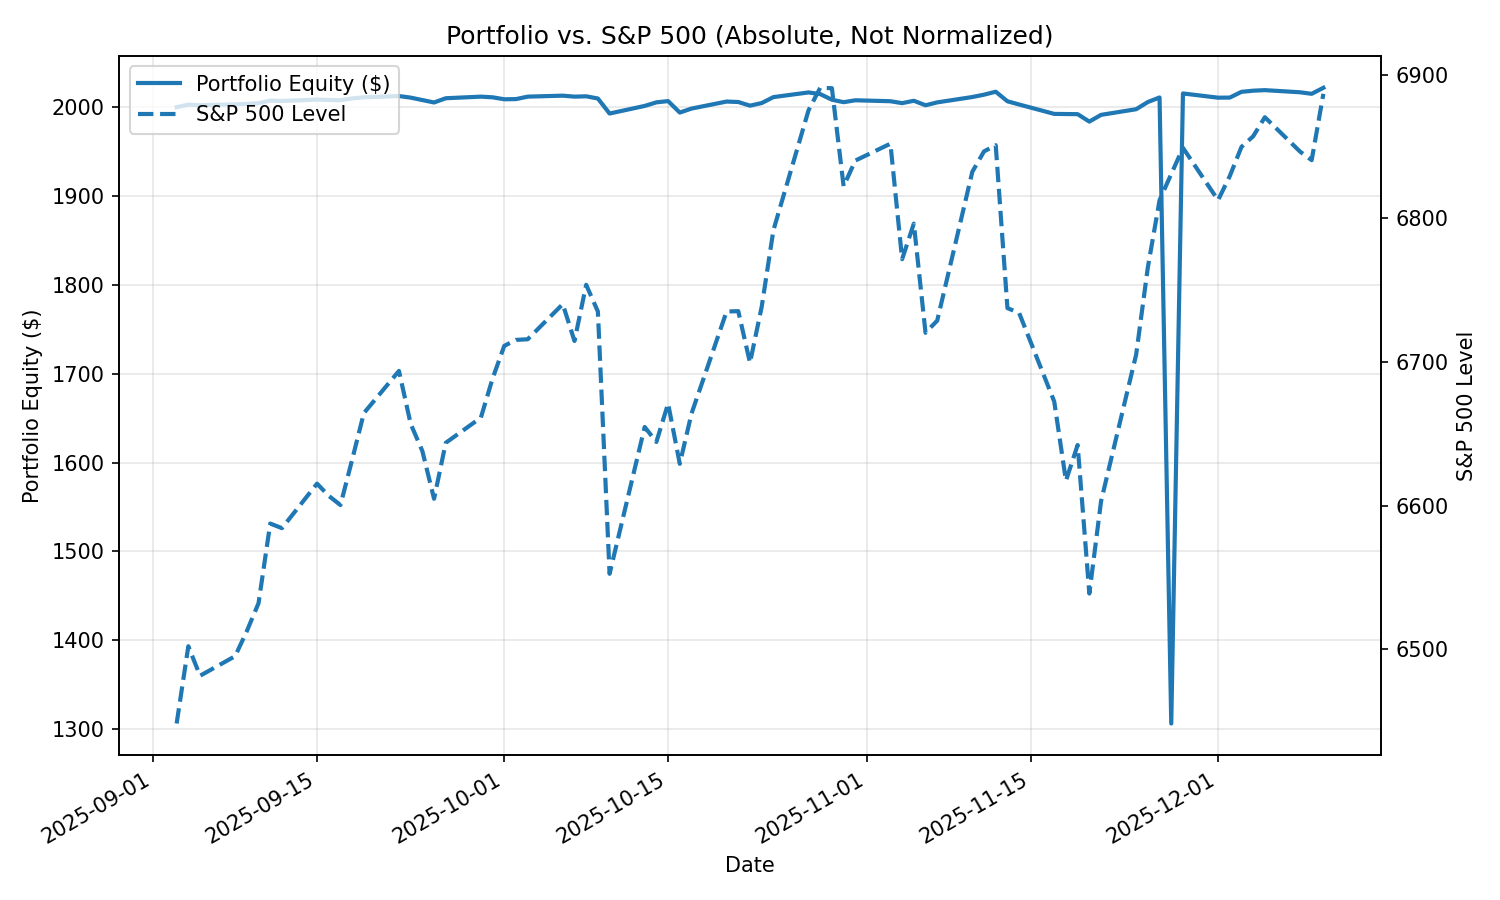
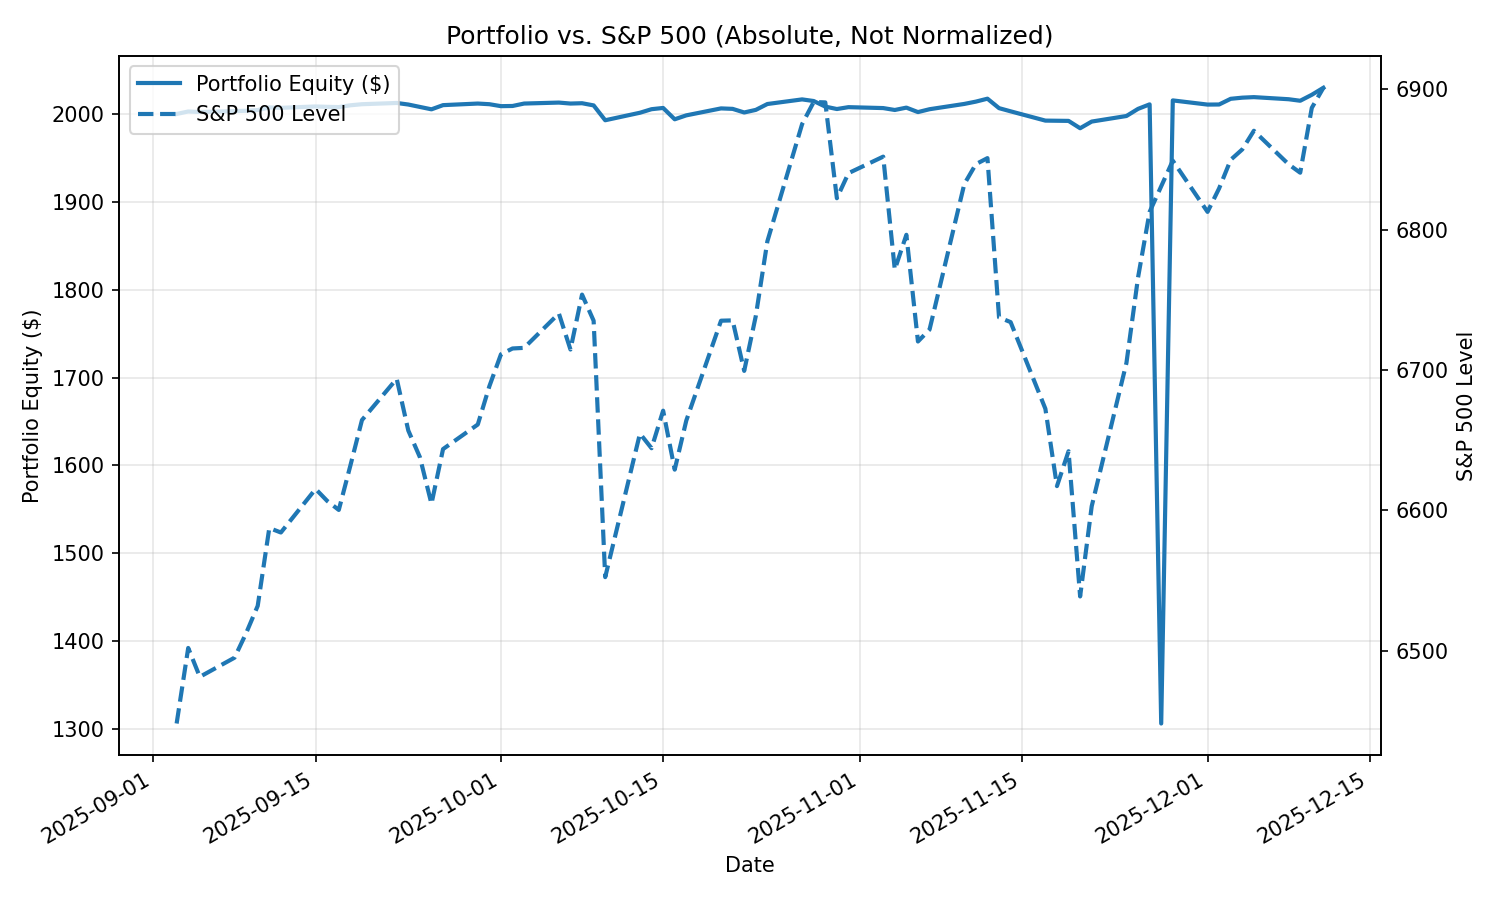
Daily snapshot [skip ci]

diff --git a/reports/paper_run_2025_12_11.md b/reports/paper_run_2025_12_11.md
@@ -1,0 +1,83 @@
+**Last Updated:** December 11th, 2025
+
+![Latest Performance Results](Results.png)
+
+# Daily Portfolio Decisions — 2025-12-11
+
+**Snapshot**
+- Total Equity: $2,030.05
+- Cash: $1,306.09
+
+## AI Proposal (Paper Mode)
+_No actions proposed today._
+
+## Executed (Simulated Fills)
+_No fills parsed (rc=0)._
+
+## Notes
+No action warranted; current holdings are stable and cash is available for future opportunities.
+
+---
+### Debug / Raw
+**Proposed JSON**
+```json
+{
+  "universe": [
+    "VTI",
+    "XLF"
+  ],
+  "actions": [],
+  "notes": "No action warranted; current holdings are stable and cash is available for future opportunities."
+}
+```
+
+**Engine stdout (tail)**
+```
+               54.87    +1.82%      46,227,665
+IWO              339.33    +1.46%         326,488
+XBI              123.05    +0.82%       5,230,651
+SPY              689.12    +0.23%      62,859,391
+IWM              257.82    +1.18%      27,357,316
+
+[ Risk & Return ]
+Max Drawdown:                            -35.27%   on 2025-11-27
+Sharpe Ratio (period):                    0.0040
+Sharpe Ratio (annualized):                0.5631
+Sortino Ratio (period):                   0.0074
+Sortino Ratio (annualized):               1.0443
+
+[ CAPM vs Benchmarks ]
+Beta (daily) vs ^GSPC:                    0.9066
+Alpha (annualized) vs ^GSPC:             482.51%
+R² (fit quality):                          0.010     Obs: 69
+  Note: Short sample and/or low R² — alpha/beta may be unstable.
+
+[ Snapshot ]
+Latest ChatGPT Equity:           $      2,030.05
+Cash Balance:                    $      1,306.09
+
+[ Holdings ]
+  ticker  shares  buy_price  cost_basis  stop_loss
+0    VTI     1.0     317.10      317.10        0.0
+1    XLF     7.0      53.83      376.81        0.0
+
+[ Your Instructions ]
+Use this info to make decisions regarding your portfolio. You have complete control over every decision. Make any changes you believe are beneficial—no approval required.
+Deep research is not permitted. Act at your discretion to achieve the best outcome.
+If you do not make a clear indication to change positions IMMEDIATELY after this message, the portfolio remains unchanged for tomorrow.
+You are encouraged to use the internet to check current prices (and related up-to-date info) for potential buys.
+
+*Paste everything above into ChatGPT*
+{
+  "status": "ok",
+  "date": "2025-12-11",
+  "applied_actions": [],
+  "cash": 1306.09,
+  "portfolio_rows": 2,
+  "files": {
+    "portfolio_csv": "/home/runner/work/ChatGPT-Micro-Cap-Experiment/ChatGPT-Micro-Cap-Experiment/chatgpt_portfolio_update.csv",
+    "trade_log_csv": "/home/runner/work/ChatGPT-Micro-Cap-Experiment/ChatGPT-Micro-Cap-Experiment/chatgpt_trade_log.csv"
+  }
+}
+
+```
